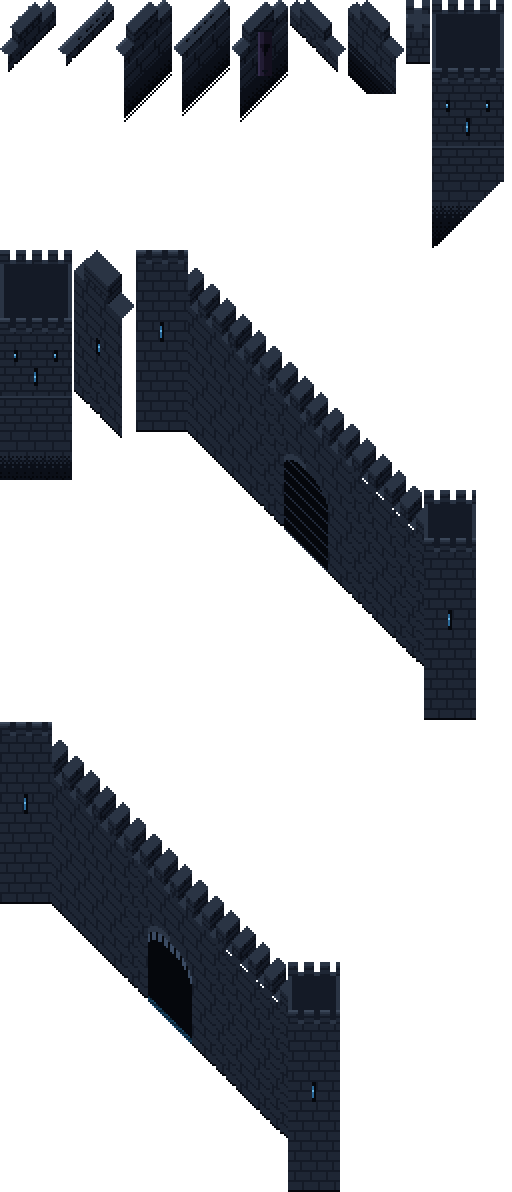
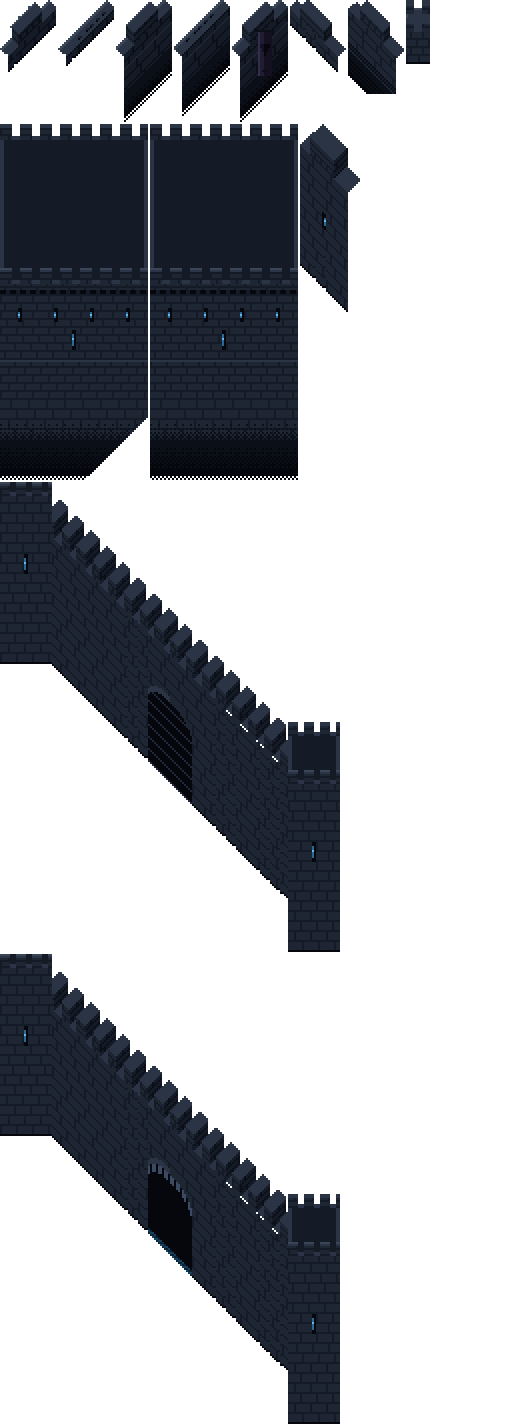
The Last Bridge: towers fill the drop beside the narrows, every piece y-sorted, the front drawn without triangulation
The gatehouse towers were 72 px posts in a drop strip 480 x 237 px; they now
fill it (160 px squares anchored at its middle). Every parapet, turret, tower
and the castle wall stands in the y-sorted group at the sort line the sheet
gives it, so a tower in the drop behind a parapet is drawn behind it. The
broken face of the deck is drawn in lines: its thin per-step polygons failed
to triangulate after five minutes (16,545 errors in the first 15-minute run).
No scattered props on the bridge: the front could not take them with the deck.
The objective strip steps aside while an onboarding tip uses its slot.

Claude-Session: https://claude.ai/code/session_01YXZmSHQrdLtKkMEcduos8u

diff --git a/scripts/BridgeRules.cs b/scripts/BridgeRules.cs
@@ -87,6 +87,7 @@ public partial class BridgeRules : ChapterRules
 	private BridgeBackdrop backdrop;
 	private BridgeFurniture furniture;
 	private Control objective;
+	private Control onboardingTip;
 	private float objectiveRedraw;
 	private float murderHoleTimer;
 	private float volleyTimer;
@@ -95,6 +96,11 @@ public partial class BridgeRules : ChapterRules
 	public override void _Ready()
 	{
 		rng.Randomize();
+		// No scattered props on the bridge. Node2DGame scatters its curated set per chunk later in its
+		// _Ready (BuildCuratedProps), and an empty theme list there means every theme, not none; everything
+		// that stands on the bridge is the furniture below, which the front takes with the deck. A brazier
+		// scattered on the deck would stand on in the drop once the deck under it fell.
+		Game.EnableCuratedProps = false;
 		if (OS.IsDebugBuild())
 		{
 			foreach (string arg in OS.GetCmdlineUserArgs())
@@ -160,6 +166,10 @@ public partial class BridgeRules : ChapterRules
 		if (objective != null && objectiveRedraw <= 0f)
 		{
 			objectiveRedraw = 0.1f;
+			// A new player's onboarding tips use the same strip of the HUD (Node2DGame.OnboardingTipTop): the
+			// bridge's line steps aside while one is up rather than printing under it.
+			onboardingTip ??= Game.GetNodeOrNull<Control>("UIOverlay/OnboardingTipLabel");
+			objective.Visible = onboardingTip == null || !onboardingTip.Visible;
 			objective.QueueRedraw();
 		}
 	}
@@ -446,13 +456,13 @@ public partial class BridgeRules : ChapterRules
 /// the first or last cell row of the water (BridgeBand). Both run through tile corners, so a piece stands on
 /// every 48 px step of the line. That is where WaterShape draws the shore, give or take its 4 px wander.
 ///
-/// HOW EACH SITS. A parapet with the drop behind it (the top-left shore, and a jog with the drop north-east)
-/// shows its inner face and is drawn UNDER every body: whatever stands at it is in front of it. A parapet with
-/// the drop in front of it (the bottom-right shore, and a jog with the drop south-west) shows its outer face and
-/// the bridge's flank going down, and is drawn OVER the bodies: whatever stands at it is behind it, so it
-/// hides their boots, as a wall in three-quarter view does. The towers, turrets and the castle wall are tall
-/// and stand among the bodies, sorted at their feet (WorldSprites.SortLift), the towers thinning round him
-/// when he is behind one (canopy_fade.gdshader, the trees' material).
+/// HOW EACH SITS. Every piece stands among the bodies and is y-sorted with them, at the sort line its
+/// manifest gives (props_bridge.py's SORT_DY): a wall with the deck in front of it (the top-left shore, a jog
+/// with the drop north-east, the castle wall) sorts at its highest point, so whatever stands at it is drawn in
+/// front of it; a wall with the deck behind it (the bottom-right shore, a jog with the drop south-west) sorts at
+/// its lowest, so it hides the boots of whatever stands at it, as a wall in three-quarter view does. The towers
+/// and the parapets then sort against each other too (a tower in the drop behind a parapet is behind it). The
+/// towers thin round him when he is behind one (canopy_fade.gdshader, the trees' material).
 /// </remarks>
 public sealed class BridgeFurniture
 {
@@ -460,8 +470,6 @@ public sealed class BridgeFurniture
 
 	private readonly BridgeRules rules;
 	private readonly Node2D root;
-	private readonly Node2D under;     // parapets whose inner face shows: under the bodies
-	private readonly Node2D over;      // parapets whose outer face shows: over the bodies
 	private readonly Node2D standing;  // towers, turrets, the wall: among the bodies
 	private readonly Dictionary<string, (AtlasTexture Texture, Vector2 Anchor, float SortDy)> pieces = new();
 	private readonly Dictionary<int, List<(Sprite2D Node, float S)>> sections = new();
@@ -480,13 +488,9 @@ public sealed class BridgeFurniture
 	{
 		this.rules = rules;
 		root = new Node2D { Name = "BridgeFurniture" };
-		under = new Node2D { Name = "Under", ZIndex = DrawLayers.Bodies - 2, ZAsRelative = false, YSortEnabled = true };
-		over = new Node2D { Name = "Over", ZIndex = DrawLayers.Bodies + 1, ZAsRelative = false, YSortEnabled = true };
 		// Nested y-sort merges with the game's, so these sort among the bodies (Node2DGame is y-sorted).
 		standing = new Node2D { Name = "Standing", YSortEnabled = true };
 		root.YSortEnabled = true;
-		root.AddChild(under);
-		root.AddChild(over);
 		root.AddChild(standing);
 		rules.Game.AddChild(root);
 		fade = new ShaderMaterial { Shader = GD.Load<Shader>("res://scenes/shaders/canopy_fade.gdshader") };
@@ -650,7 +654,7 @@ public sealed class BridgeFurniture
 				variant = id + "_banner";
 			else if (h % 18 == 3 && pieces.ContainsKey(id + "_breach"))
 				variant = id + "_breach";
-			Place(made, variant, at, side < 0 ? under : over);
+			Place(made, variant, at, standing);
 		}
 	}
 
@@ -675,13 +679,13 @@ public sealed class BridgeFurniture
 			float lo = Math.Min(vFrom, vTo), hi = Math.Max(vFrom, vTo);
 			float v0 = LatticeV(lo + 48f, e);
 			// A "\" segment runs from point v down-right to v + 96. The drop is on the narrower piece's
-			// side of the line: north-east when narrowing (inner face shows, under the bodies), south-west
-			// when widening (outer face and flank show, over them).
+			// side of the line: north-east when narrowing (the inner face shows), south-west when widening
+			// (the outer face and the flank show).
 			string id = narrowing ? "parapet_ne" : "parapet_sw";
 			if (!cliff)
 			{
 				for (float v = v0; v + 96f <= hi - 24f; v += 96f)
-					Place(made, id, new Vector2((u + v) * 0.5f, (v - u) * 0.5f), narrowing ? under : over);
+					Place(made, id, new Vector2((u + v) * 0.5f, (v - u) * 0.5f), standing);
 			}
 			// Turrets where it turns, which also cover what the water's rounding does to a corner.
 			Place(made, "turret", new Vector2((u + vFrom) * 0.5f, (vFrom - u) * 0.5f), standing);
@@ -700,18 +704,17 @@ public sealed class BridgeFurniture
 		return n * 48f;
 	}
 
-	// A gatehouse's towers stand in the drop either side of the narrows, at its middle, each with its corner
-	// on the passage's shore: the north-west one by its south-east corner, the south-east one by its
-	// north-west corner. They are blocked ground already (water) - nothing new collides.
+	// A gatehouse's towers stand in the drop either side of the narrows and fill it: the strip of drop beside
+	// the passage is the gatehouse's length along the bridge and (span K - gatehouse K) steps across, and each
+	// tower is anchored at that strip's middle. They stand on blocked ground already (water): nothing new
+	// collides, and the passage between them is exactly the deck the band left.
 	private void Towers(List<(Sprite2D Node, float S)> made, BridgeBand.Piece p)
 	{
-		float c = p.K * BridgeBand.TilePx;
-		// The point on each shore at the piece's middle, snapped to the 48 px lattice of that line.
-		// x + y = -c on the north-west shore, x + y = +c on the south-east: points (x, -c - x) and (x, c - x).
-		float xn = 48f * Mathf.Round((p.Mid * 0.70710678f - c * 0.5f) / 48f);
-		float xs = 48f * Mathf.Round((p.Mid * 0.70710678f + c * 0.5f) / 48f);
-		Place(made, "tower_nw", new Vector2(xn, -c - xn), standing, fade: true);
-		Place(made, "tower_se", new Vector2(xs, c - xs), standing, fade: true);
+		int i = Array.IndexOf(BridgeBand.Pieces, p);
+		int outer = Math.Min(BridgeBand.Pieces[i - 1].K, BridgeBand.Pieces[i + 1].K);
+		float t = (p.K + outer) * 0.5f * BridgeBand.StepPx;
+		Place(made, "tower_nw", BridgeBand.LocalAt(p.Mid, -t).Round(), standing, fade: true);
+		Place(made, "tower_se", BridgeBand.LocalAt(p.Mid, t).Round(), standing, fade: true);
 	}
 
 	// The castle wall across the far end of the gate yard (x - y = u for the last deck row's next), the gate

diff --git a/scripts/BridgeCollapseFront.cs b/scripts/BridgeCollapseFront.cs
@@ -214,7 +214,7 @@ public partial class BridgeCollapseFront : Node2D
 		b.T = rng.RandfRange(-1f, 1f);
 		b.Life = rng.RandfRange(0.8f, 1.6f);
 		b.Age = age01 * b.Life;
-		b.Size = rng.RandfRange(3f, 7f);
+		b.Size = rng.RandfRange(4f, 9f);
 		b.Tone = rng.RandiRange(0, 2);
 		b.Drift = rng.RandfRange(-6f, 6f);
 	}
@@ -227,9 +227,13 @@ public partial class BridgeCollapseFront : Node2D
 	private static readonly Color StoneShade = new("#141A26");
 	private static readonly Color StoneDeep = new("#0B0F18");
 	private static readonly Color Occ = new("#05070C");
-	private static readonly Color[] BlockTones = { StoneLit, StoneBase, StoneShade };
+	private static readonly Color StoneHi = new("#3A4658");
+	private static readonly Color[] BlockTones = { StoneLit, StoneBase, StoneLit };
 
 	private readonly Vector2[] quad = new Vector2[4];
+	// The broken edge and one row of the face under it, reused while the deck's width is the same.
+	private Vector2[] edge = System.Array.Empty<Vector2>();
+	private Vector2[] row = System.Array.Empty<Vector2>();
 	private readonly Vector2[] quadUv = new Vector2[4];
 	private readonly Color[] quadColour = { Colors.White, Colors.White, Colors.White, Colors.White };
 
@@ -237,7 +241,7 @@ public partial class BridgeCollapseFront : Node2D
 	private const float FallenDepth = 3200f;
 	private const float FallenHalfWidth = 1800f;
 	// The broken end of the deck: its face, seen hanging into the drop, and the ragged line it broke along.
-	private const float FaceHeight = 22f;
+	private const float FaceHeight = 24f;
 	private const float RaggedStep = 12f;
 
 	public override void _Draw()
@@ -265,25 +269,32 @@ public partial class BridgeCollapseFront : Node2D
 		float half = BridgeBand.HalfWidthAt(front) + 16f;
 		if (half <= 16f)
 			return;
-		for (float t = -half; t < half; t += RaggedStep)
+		int steps = Mathf.CeilToInt(2f * half / RaggedStep);
+		if (edge.Length != steps + 1)
+			edge = new Vector2[steps + 1];
+		if (row.Length != steps + 1)
+			row = new Vector2[steps + 1];
+		for (int i = 0; i <= steps; i++)
 		{
+			float t = -half + i * RaggedStep;
 			int k = Mathf.FloorToInt(t / RaggedStep);
-			float bite = Hash01(k, 11) * 10f;
-			float bite2 = Hash01(k + 1, 11) * 10f;
-			Vector2 a = Rules.WorldAt(front - bite, t) - at;
-			Vector2 b = Rules.WorldAt(front - bite2, t + RaggedStep) - at;
-			// The face: from the edge straight down the screen into the drop, lit at its top course and
-			// fading through the deep stop to occlusion. Three bands of whole pixels.
-			Band(a, b, 0f, 3f, StoneBase);
-			Band(a, b, 3f, 9f, StoneShade);
-			Band(a, b, 9f, 15f, StoneDeep);
-			Band(a, b, 15f, FaceHeight, Occ);
-			// A joint every other step: the setts' ends in the face.
-			if ((k & 1) == 0)
-			{
-				Vector2 m = (a + b) * 0.5f;
-				DrawRect(new Rect2(Mathf.Round(m.X), Mathf.Round(m.Y) + 3f, 1f, 6f), StoneDeep);
-			}
+			edge[i] = Rules.WorldAt(front - Hash01(k, 11) * 10f, t) - at;
+		}
+		// The face: from the edge straight down the screen into the drop, lit at its top course and fading
+		// through the deep stop to occlusion - one line of the face per pixel row, the edge moved down. Lines,
+		// not polygons: a strip a few pixels tall along a ragged line is exactly what triangulation trips on.
+		for (int y = 0; y < (int)FaceHeight; y++)
+		{
+			Color tone = y < 2 ? StoneLit : y < 6 ? StoneBase : y < 12 ? StoneShade : y < 17 ? StoneDeep : Occ;
+			for (int i = 0; i <= steps; i++)
+				row[i] = edge[i] + new Vector2(0f, y + 0.5f);
+			DrawPolyline(row, tone, 1f);
+		}
+		// A joint every other step: the setts' ends in the face.
+		for (int i = 0; i < steps; i += 2)
+		{
+			Vector2 m = (edge[i] + edge[i + 1]) * 0.5f;
+			DrawRect(new Rect2(Mathf.Round(m.X), Mathf.Round(m.Y) + 3f, 1f, 6f), StoneDeep);
 		}
 
 		// The masonry falling away: blocks leaving the edge, dropping down the screen into the mist, smaller
@@ -299,7 +310,7 @@ public partial class BridgeCollapseFront : Node2D
 			var r = new Rect2(Mathf.Round(p.X), Mathf.Round(p.Y), size, size);
 			DrawRect(r, tone);
 			if (size >= 3f && u < 0.45f)
-				DrawRect(new Rect2(r.Position, new Vector2(size, 1f)), StoneLit);
+				DrawRect(new Rect2(r.Position, new Vector2(size, 1f)), StoneHi);
 		}
 	}
 
@@ -309,16 +320,6 @@ public partial class BridgeCollapseFront : Node2D
 		quad[1] = b - at;
 		quad[2] = c - at;
 		quad[3] = d - at;
-	}
-
-	// A band of the broken face between two edge points, from y0 to y1 px below them, in whole pixels.
-	private void Band(Vector2 a, Vector2 b, float y0, float y1, Color colour)
-	{
-		quad[0] = (a + new Vector2(0f, y0)).Round();
-		quad[1] = (b + new Vector2(0f, y0)).Round();
-		quad[2] = (b + new Vector2(0f, y1)).Round();
-		quad[3] = (a + new Vector2(0f, y1)).Round();
-		DrawColoredPolygon(quad, colour);
 	}
 
 	private static float Hash01(int k, int salt) =>

diff --git a/tools/art/props_bridge.py b/tools/art/props_bridge.py
@@ -364,28 +364,39 @@ def slit(p, x, ground_y, v0, v1):
     p.put(x, ground_y - (v0 + v1) // 2, AR[1])
 
 
+# The gatehouse's notches: the drop either side of the narrows is a strip 480 world px along the bridge and
+# (13 - 6) diagonal steps across it, 237 px. A tower fills it: an axis-aligned square whose diagonals are
+# as long as the strip is wide (side 160 world px, 80 art). It is anchored at its middle, which
+# BridgeFurniture puts at the middle of the strip, and its foot is cut where it would hang over the deck:
+# 59 art px across from its middle toward the passage (the strip's half-width), x + y = 83 in art px.
+TOWER_W = 74
+NOTCH_HALF_ART = 59
+
+
 def tower(nw):
-    """A gatehouse tower rising out of the drop beside the narrows. nw: it stands north-west of the
-    passage, anchored by its south-east corner; otherwise south-east, anchored by its north-west corner.
-    Its foot goes down into the mist; on the north-west tower that part is cut where it would lie over
-    the deck (the shore is x + y = 0 through the anchor)."""
-    W, Ht, F = 36, 50, 34
-    p = Piece(120, 160, 70, 100)
-    x0, y0 = (-W, -W) if nw else (0, 0)
+    """A gatehouse tower rising out of the drop beside the narrows, filling the strip of drop there. nw: it
+    stands north-west of the passage (the passage is south-east of it); otherwise south-east of it."""
+    W, Ht, F = TOWER_W, 58, 40
+    p = Piece(200, 240, 100, 150)
+    x0, y0 = -W // 2, -W // 2
     south = masonry(ST[2], ST[3], 4, 8, 1.0, 61 if nw else 63)
     base = flank(ST[2], ST[3], F, 1.0, 65)
+    limit = NOTCH_HALF_ART * math.sqrt(2.0) - 1.0
 
     def foot_clip(px, py, u, v):
-        return not nw or px + py < -1.0
+        # The part of the foot that would hang over the passage, which is south-east of the north-west
+        # tower; the south-east tower's foot is all over the drop.
+        return not nw or px + py < limit
 
     p.face((x0, y0 + W, 0.0), (1.0, 0.0), W, -F, 0.0, base, foot_clip)
     p.face((x0, y0 + W, 0.0), (1.0, 0.0), W, 0.0, Ht, south)
-    # A string course a third of the way up, and the slits with his light.
-    p.face((x0, y0 + W, 0.0), (1.0, 0.0), W, 17.0, 18.0, lambda u, v: ST[1])
-    slit(p, x0 + W // 2 - 1, y0 + W, 24, 33)
-    slit(p, x0 + 7, y0 + W, 36, 42)
-    slit(p, x0 + W - 9, y0 + W, 36, 42)
-    crenellated_top(p, x0, y0, W, W, Ht)
+    # String courses, the slits with his light, and a machicolation's shadow under the parapet.
+    p.face((x0, y0 + W, 0.0), (1.0, 0.0), W, 19.0, 20.0, lambda u, v: ST[1])
+    p.face((x0, y0 + W, 0.0), (1.0, 0.0), W, Ht - 5.0, Ht - 3.0, lambda u, v: OCC if int(u) % 5 < 3 else ST[3])
+    slit(p, x0 + W // 2 - 1, y0 + W, 26, 36)
+    for k in range(4):
+        slit(p, x0 + 9 + k * (W - 20) // 3, y0 + W, 40, 47)
+    crenellated_top(p, x0, y0, W, W, Ht, merlon=6, gap=4, mh=6)
     return p.finish()
 
 
@@ -493,9 +504,17 @@ def pieces():
     return out
 
 
-# Where a piece sorts, if not at its anchor: world px above it (the gate sorts at its upper-left end, so
-# everything in the yard in front of any part of it is drawn in front of it).
-SORT_DY = {"gate_shut": -int(STEP * 3 * SCALE), "gate_open": -int(STEP * 3 * SCALE)}
+# Where a piece sorts, in world px from its anchor (negative: above it). Everything stands among the bodies
+# and is y-sorted with them, so each piece sorts at the line that keeps whatever can stand beside it on the
+# right side of it: a wall whose deck is in front of it (north-west "/", north-east "\\", the castle wall)
+# sorts at its highest point, so every body on the deck is drawn in front; a wall whose deck is behind it
+# (south-east "/", south-west "\\") at its lowest, so every body is drawn behind it and it hides their boots.
+# The gate sorts at its upper-left end, so all of the yard is in front of all of it.
+SORT_DY = {
+    "parapet_nw": -STEP * SCALE, "parapet_nw_breach": -STEP * SCALE,
+    "parapet_sw": STEP * SCALE,
+    "gate_shut": -int(STEP * 3 * SCALE), "gate_open": -int(STEP * 3 * SCALE),
+}
 
 
 def main():

diff --git a/scripts/LevelGenerator.cs b/scripts/LevelGenerator.cs
@@ -295,9 +295,11 @@ public sealed partial class LevelGenerator
 				new BlobSpec("rocky_pit", 1.0f, 1.4f, 2.4f),
 			},
 			Density = 0.0018f,
-			// The garrison's braziers and chain-posts. Not bones: the bridge's dead are names on the
+			// No scattered props. Everything standing on the bridge is BridgeRules' (the parapets, towers and
+			// castle wall), which the front takes with the deck; a scattered brazier would stand on in the
+			// drop after the deck under it fell. And none of it is bones: the bridge's dead are names on the
 			// parapet, never bodies (3.9).
-			PropThemes = new[] { "torture" },
+			PropThemes = Array.Empty<string>(),
 			Topology = StageTopology.Band,
 		},
 

diff --git a/scripts/StageEnvironmentCatalog.cs b/scripts/StageEnvironmentCatalog.cs
@@ -549,8 +549,9 @@ public static class StageEnvironmentCatalog
 			0,
 			new[] { "res://assets/bonelight/tiles/deck_fill.png" },
 			48f,
-			// The garrison's few braziers and chain-posts left on the deck (the `torture` theme).
-			propCount: 16)
+			// No scattered props either (the palette names no theme): anything standing on the deck would
+			// stand on in the drop once the front had passed it.
+			propCount: 0)
 		{
 			HazeTint = new Color(0.12f, 0.16f, 0.24f, 0.10f),
 			GlowTint = new Color(0.20f, 0.24f, 0.34f, 0.05f),
